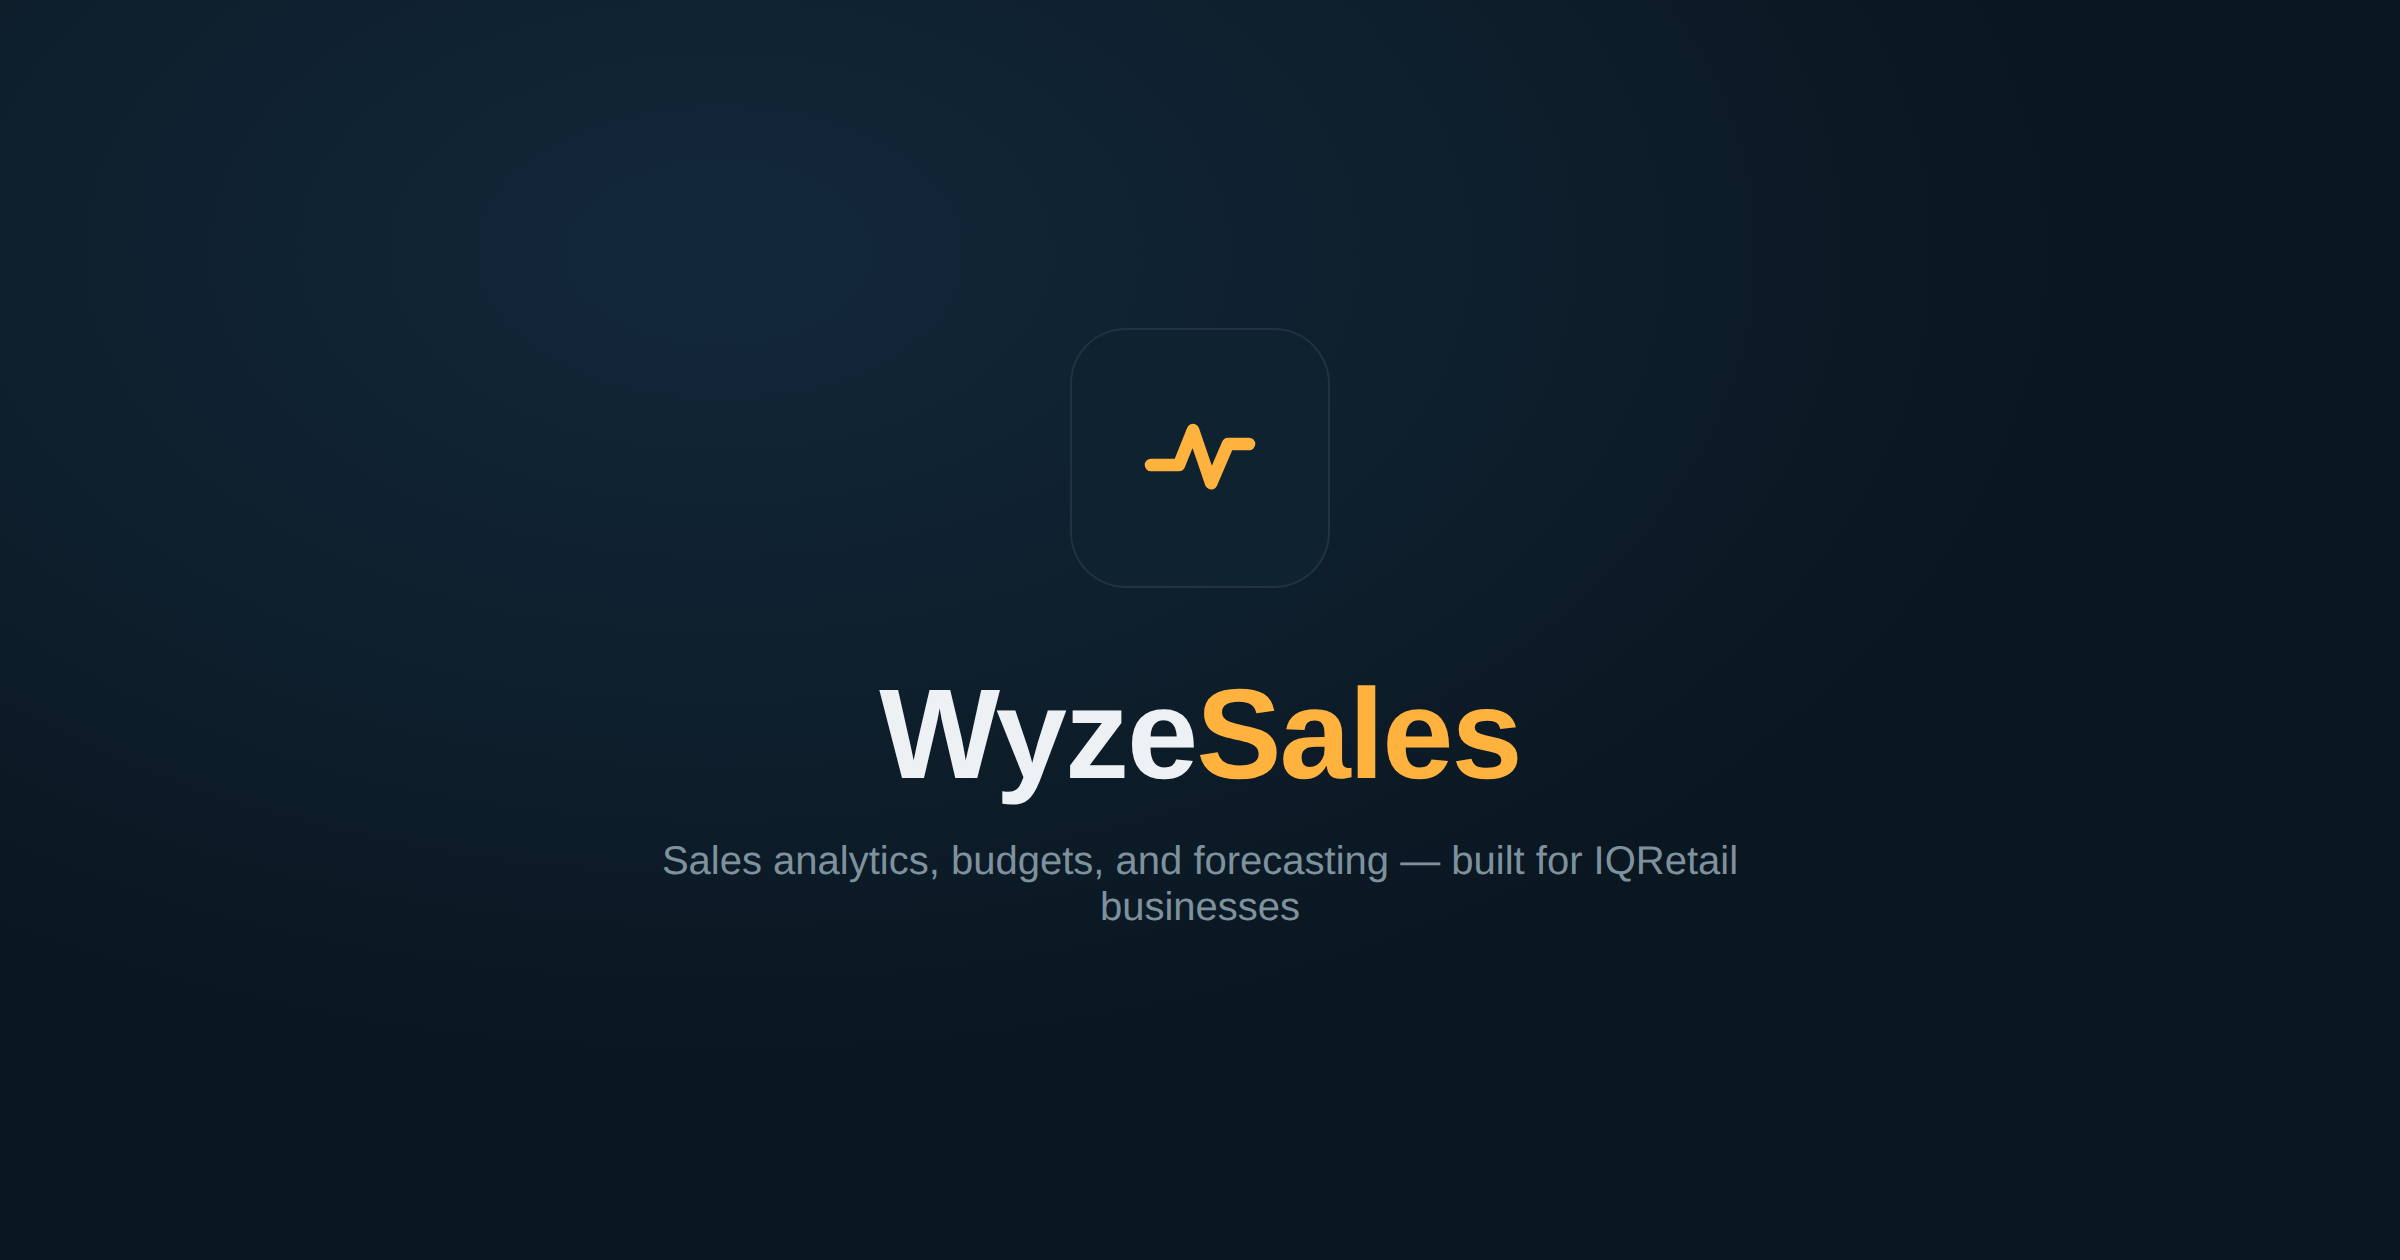
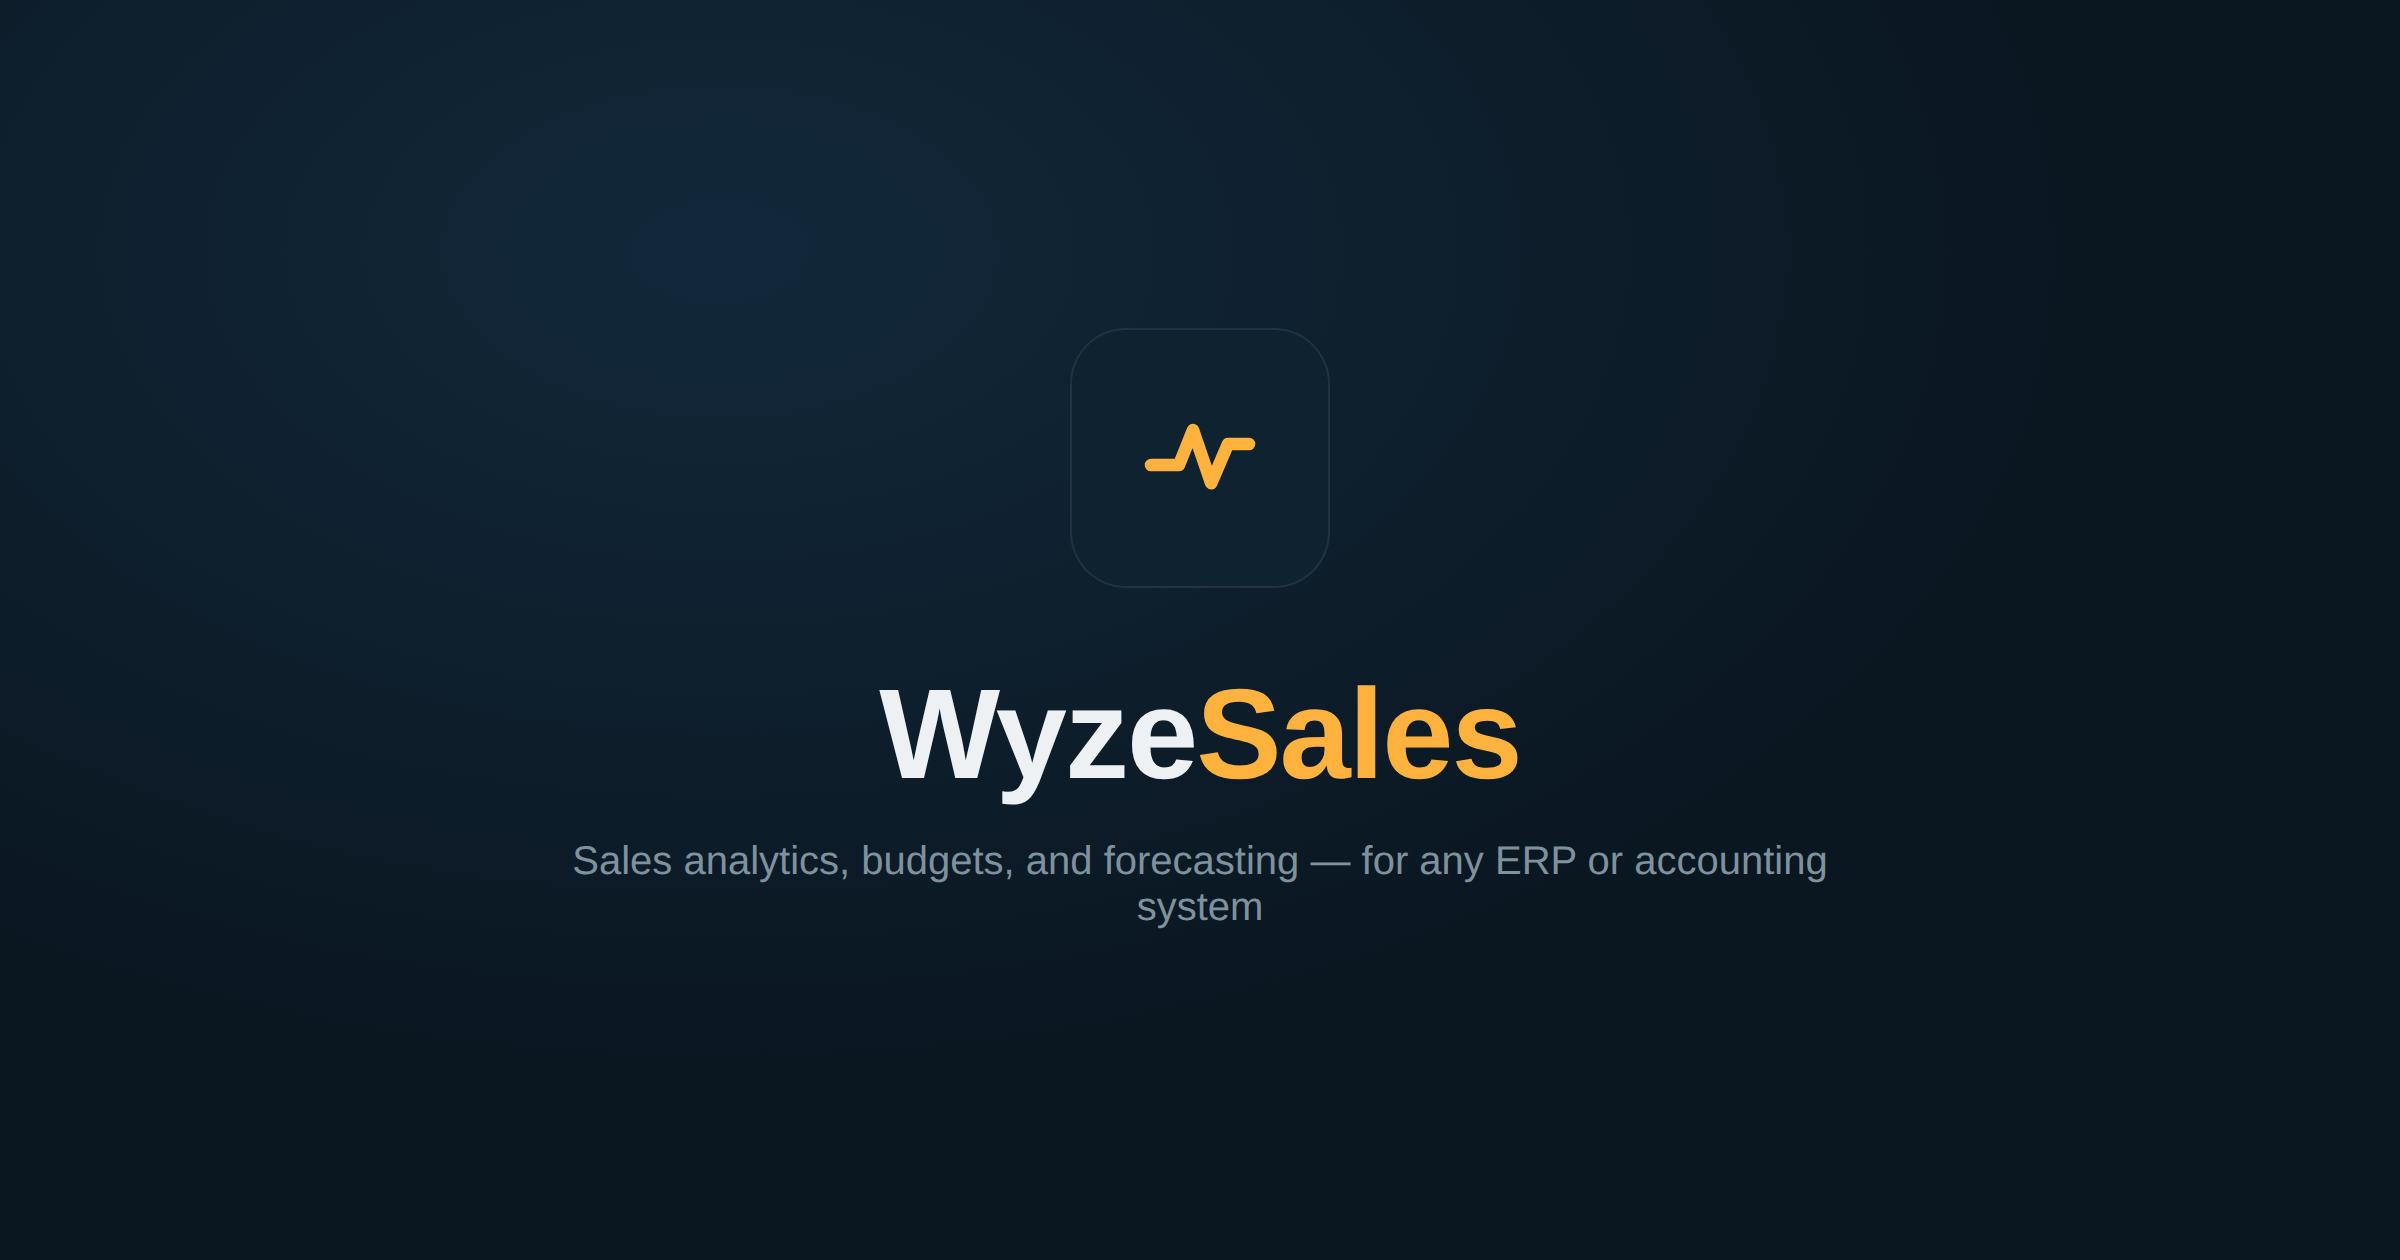
Fix product positioning: WyzeSales works with any ERP, not just IQRetail
Previous commit's message described this fix but the file writes hadn't
actually landed. This time verified directly on disk before committing:
hero, eyebrow, features grid, and automatic-sync section now say "any
ERP or accounting database" (IQRetail mentioned only as one example),
plus corrected OG image and sync diagram graphic.

Claude-Session: https://claude.ai/code/session_01QHwPFiGFbLTwQV6idLSpES

Changed region(s): [[0.25, 0.65, 0.7812, 0.7429]]

diff --git a/index.html b/index.html
@@ -3,8 +3,8 @@
 <head>
 <meta charset="UTF-8">
 <meta name="viewport" content="width=device-width, initial-scale=1.0">
-<title>WyzeSales — Sales Analytics, Budgets & Forecasting for IQRetail</title>
-<meta name="description" content="WyzeSales turns your IQRetail data into sales dashboards, budgets, and seasonal forecasts — synced automatically every night. No exports, no spreadsheets. Built for South African retail and wholesale businesses.">
+<title>WyzeSales — Sales Analytics, Budgets & Forecasting for Any ERP</title>
+<meta name="description" content="WyzeSales turns your ERP or accounting data into sales dashboards, budgets, and seasonal forecasts — synced automatically every night, whatever system you run. No exports, no spreadsheets. Built for South African retail and wholesale businesses.">
 <link rel="canonical" href="https://www.wyzesales.com/">
 
 <!-- Favicon -->
@@ -19,8 +19,8 @@
 <!-- Open Graph -->
 <meta property="og:type" content="website">
 <meta property="og:site_name" content="WyzeSales">
-<meta property="og:title" content="WyzeSales — Sales Analytics, Budgets & Forecasting for IQRetail">
-<meta property="og:description" content="Sales dashboards, budgets, and seasonal forecasts, built straight from your IQRetail data — synced automatically every night. No exports, no spreadsheets.">
+<meta property="og:title" content="WyzeSales — Sales Analytics, Budgets & Forecasting for Any ERP">
+<meta property="og:description" content="Sales dashboards, budgets, and seasonal forecasts, built straight from your ERP or accounting data — synced automatically every night. No exports, no spreadsheets.">
 <meta property="og:url" content="https://www.wyzesales.com/">
 <meta property="og:image" content="https://www.wyzesales.com/images/og.png">
 <meta property="og:image:width" content="1200">
@@ -28,8 +28,8 @@
 
 <!-- Twitter Card -->
 <meta name="twitter:card" content="summary_large_image">
-<meta name="twitter:title" content="WyzeSales — Sales Analytics, Budgets & Forecasting for IQRetail">
-<meta name="twitter:description" content="Sales dashboards, budgets, and seasonal forecasts, built straight from your IQRetail data — synced automatically every night.">
+<meta name="twitter:title" content="WyzeSales — Sales Analytics, Budgets & Forecasting for Any ERP">
+<meta name="twitter:description" content="Sales dashboards, budgets, and seasonal forecasts, built straight from your ERP or accounting data — synced automatically every night.">
 <meta name="twitter:image" content="https://www.wyzesales.com/images/og.png">
 
 <meta name="theme-color" content="#0A1620">
@@ -41,7 +41,7 @@
   "name": "WyzeSales",
   "applicationCategory": "BusinessApplication",
   "operatingSystem": "Web",
-  "description": "Sales analytics, budgeting, and forecasting platform for IQRetail businesses. Automatic nightly sync, no exports required.",
+  "description": "Sales analytics, budgeting, and forecasting platform that connects to any ERP or accounting database. Automatic nightly sync, no exports required.",
   "url": "https://www.wyzesales.com",
   "publisher": {
     "@type": "Organization",
@@ -449,11 +449,12 @@
 
   <section class="hero">
     <div class="wrap hero-inner">
-      <div class="eyebrow"><span class="dot"></span> Built for IQRetail businesses</div>
-      <h1>Your IQRetail data,<br>turned into <span class="accent">sales decisions</span>.</h1>
+      <div class="eyebrow"><span class="dot"></span> Works with any ERP or accounting system</div>
+      <h1>Your ERP data,<br>turned into <span class="accent">sales decisions</span>.</h1>
       <p class="hero-sub">
-        WyzeSales pulls straight from your IQRetail database every night and turns it into real dashboards —
-        sales analysis, budgets, seasonal forecasting, and performance views — without a single export or spreadsheet.
+        WyzeSales connects directly to your ERP or accounting database — IQRetail or otherwise — and pulls a fresh
+        sync every night, turning it into real dashboards: sales analysis, budgets, seasonal forecasting, and
+        performance views — without a single export or spreadsheet.
       </p>
       <div class="hero-ctas">
         <a href="#contact" class="btn btn-primary">Get in touch</a>
@@ -479,8 +480,8 @@
     <div class="wrap">
       <div class="section-head">
         <div class="section-label">What WyzeSales does</div>
-        <h2>Everything you need to run sales, without leaving your IQRetail data behind</h2>
-        <p>One platform for the numbers you already have — analysed, budgeted, and forecast automatically.</p>
+        <h2>Everything you need to run sales, without leaving your ERP data behind</h2>
+        <p>One platform for the numbers you already have — analysed, budgeted, and forecast automatically, whatever system they live in.</p>
       </div>
       <div class="feature-grid">
         <div class="feature-card">
@@ -505,8 +506,8 @@
         </div>
         <div class="feature-card">
           <div class="feature-icon">🔄</div>
-          <h3>Automatic IQRetail sync</h3>
-          <p>A nightly extract keeps everything current. No manual exports, no spreadsheets, nothing to remember to run.</p>
+          <h3>Automatic ERP sync</h3>
+          <p>A nightly extract keeps everything current, whatever ERP or accounting system you run — IQRetail or otherwise. No manual exports, no spreadsheets, nothing to remember to run.</p>
         </div>
         <div class="feature-card">
           <div class="feature-icon">🔐</div>
@@ -589,16 +590,16 @@
         <div class="showcase-text">
           <div class="section-label">Automatic sync</div>
           <h2>No exports. No spreadsheets. No one has to remember to run anything.</h2>
-          <p>WyzeSales connects directly to your IQRetail database and pulls a fresh extract every night, so the dashboards are simply ready each morning.</p>
+          <p>WyzeSales connects directly to your ERP or accounting database — IQRetail or otherwise — and pulls a fresh extract every night, so the dashboards are simply ready each morning.</p>
           <ul class="showcase-list">
-            <li>Direct connection to your IQRetail database</li>
+            <li>Direct connection to your ERP or accounting database</li>
             <li>Fully automatic nightly extract</li>
             <li>Updated and ready every morning, no action needed</li>
           </ul>
         </div>
         <div class="showcase-image">
           <div class="showcase-frame narrow">
-            <img src="/images/shot-sync.png" alt="Diagram showing automatic nightly sync from IQRetail database to WyzeSales" loading="lazy">
+            <img src="/images/shot-sync.png" alt="Diagram showing automatic nightly sync from your ERP or accounting database to WyzeSales" loading="lazy">
           </div>
         </div>
       </div>
